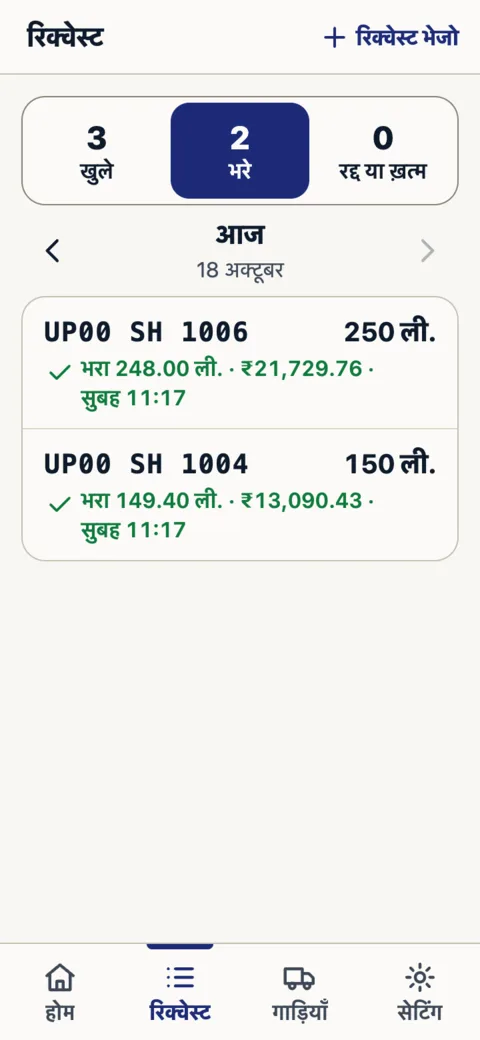
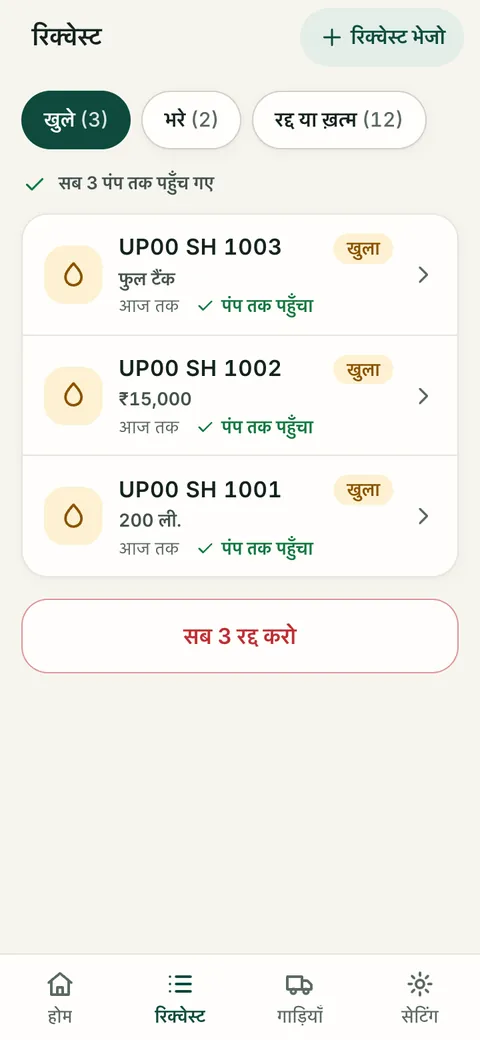
Khata Kavach page: pine green like the apps, and screenshots of the new screens
The apps moved to pine green on 18 Oct (the owner's design screens). The page's own
palette follows (one token block; no class changed), the mark and lockups are
recoloured, and the ten phone screenshots are retaken from the redesigned apps.

diff --git a/tailwind.config.js b/tailwind.config.js
@@ -42,21 +42,22 @@ export default {
           faint: "#9B9DBE",
           hairline: "#E4E6F1",
         },
-        // ── Khata Kavach's own palette (its brand guide): ink first, one blue,
-        //    paper is the accent. Used on the /khata-kavach page and the home
-        //    page's second-app panel, never to restyle Dealer's Kavach. ──
+        // ── Khata Kavach's own palette, the same as its apps since 18 Oct 2026: pine green
+        //    for actions and dark panels, a cream page. Used on the /khata-kavach page and
+        //    the home page's second-app panel, never to restyle Dealer's Kavach. (The key is
+        //    still called siyahi, the old blue's name, so no class had to change.) ──
         kk: {
-          siyahi: "#1D2A78", // the one blue
-          deep: "#131B57", // pressed
-          wash: "#E5E8F5",
+          siyahi: "#0F4A3D", // pine: the one brand colour
+          deep: "#0A3B30", // pressed
+          wash: "#E3EEE8",
           cream: "#F4EFE3", // marketing ground
-          paper: "#F6F5F1",
-          surface: "#FBFAF7",
-          coal: "#14171C",
-          ink: "#0E1A2B",
-          soft: "#3D4756",
-          muted: "#586274", // the lightest text allowed on paper or cream
-          steel: "#9AA6B5", // dark grounds only
+          paper: "#F6F5EF",
+          surface: "#FFFEFB",
+          coal: "#0B3F33",
+          ink: "#14231F",
+          soft: "#43524D",
+          muted: "#5B6964", // the lightest text allowed on paper or cream
+          steel: "#9FB3AC", // dark grounds only
         },
         // The nozzle's three lights. They mean one thing each and appear ONLY
         // inside the nozzle demo on /khata-kavach, never as decoration.

diff --git a/src/i18n/en/kk.ts b/src/i18n/en/kk.ts
@@ -36,7 +36,7 @@ export const kk = {
       "Never lends or holds your money",
     ],
     phoneAlt:
-      "The nozzle screen on a pump's phone: a green light, the truck number UP00 SH 1001, and 'Fill 200 L diesel'.",
+      "The nozzle screen on a pump's phone: 'You can fill' for truck UP00 SH 1001, 200 L of diesel, with the litres and rupees typed from the dispenser.",
     card: {
       heading: "The same line",
       plate: "UP00 SH 1001",
@@ -91,7 +91,7 @@ export const kk = {
     appLink: "Open the Pump app (web)",
     alts: [
       "Khata Kavach Pump, the Today screen: credit given today, this month's credit, money received and the total owed.",
-      "Khata Kavach Pump, one transporter's account: the amount owed against his limit, with a Payment received button.",
+      "Khata Kavach Pump, one transporter's account: the amount owed against the limit, with a Record a payment button.",
     ],
   },
 

diff --git a/src/i18n/hi/kk.ts b/src/i18n/hi/kk.ts
@@ -28,7 +28,7 @@ export const kk: typeof EN = {
       "पंप पर सिग्नल न हो तब भी चलता है",
       "उधार नहीं देता, आपका पैसा नहीं रखता",
     ],
-    phoneAlt: "पंप के फ़ोन की नोज़ल स्क्रीन: हरी लाइट, गाड़ी UP00 SH 1001 और ‘भरो: 200 L डीज़ल’।",
+    phoneAlt: "पंप के फ़ोन की नोज़ल स्क्रीन: हरा निशान ‘भर सकते हो’, गाड़ी UP00 SH 1001 और ‘भरना है: 200 L डीज़ल’।",
     card: {
       heading: "वही लाइन",
       plate: "UP00 SH 1001",
